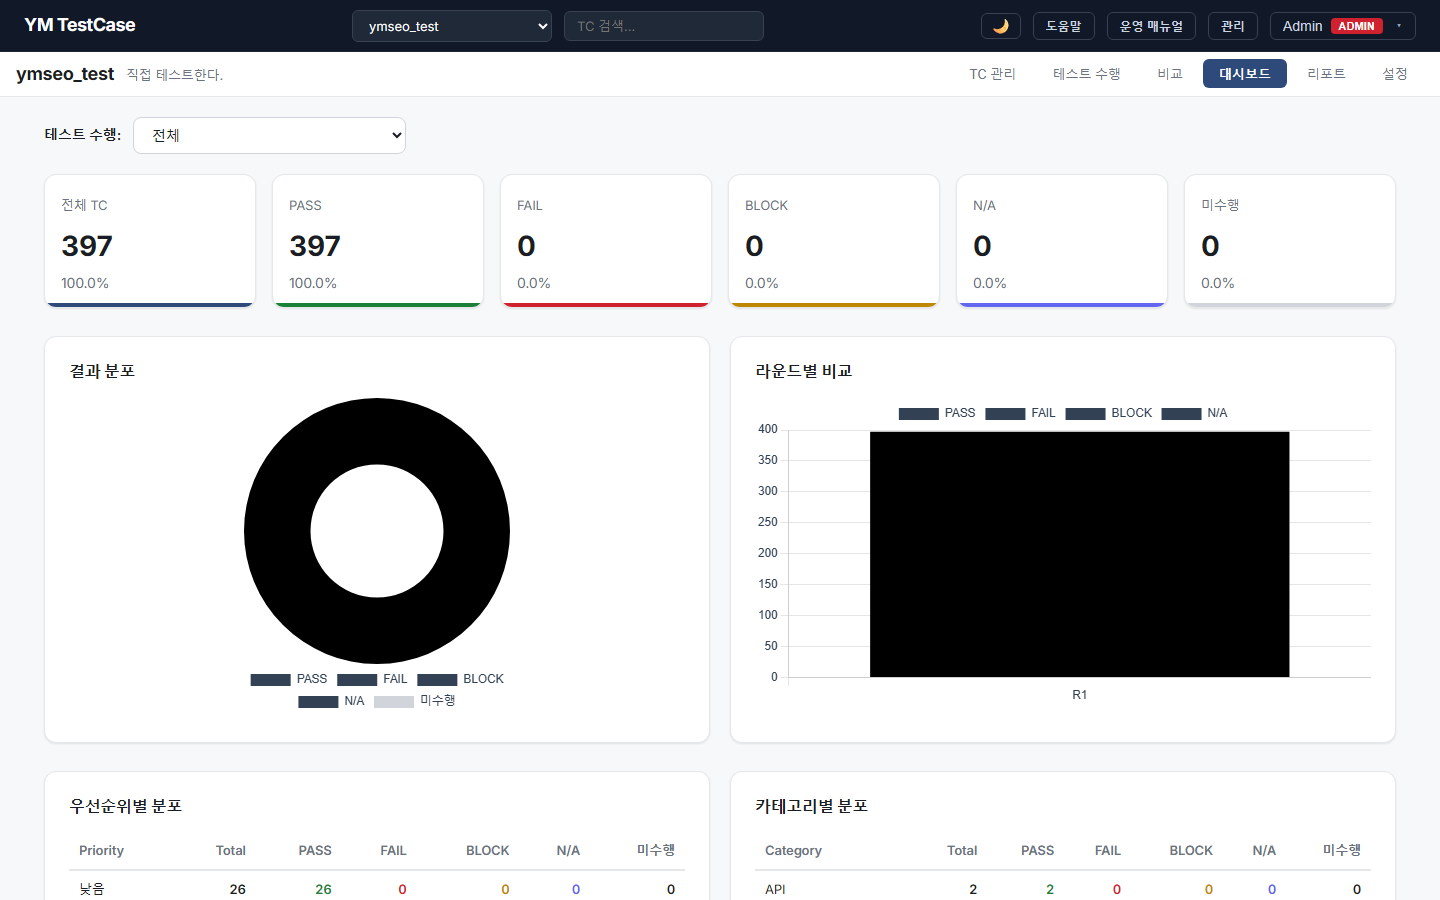
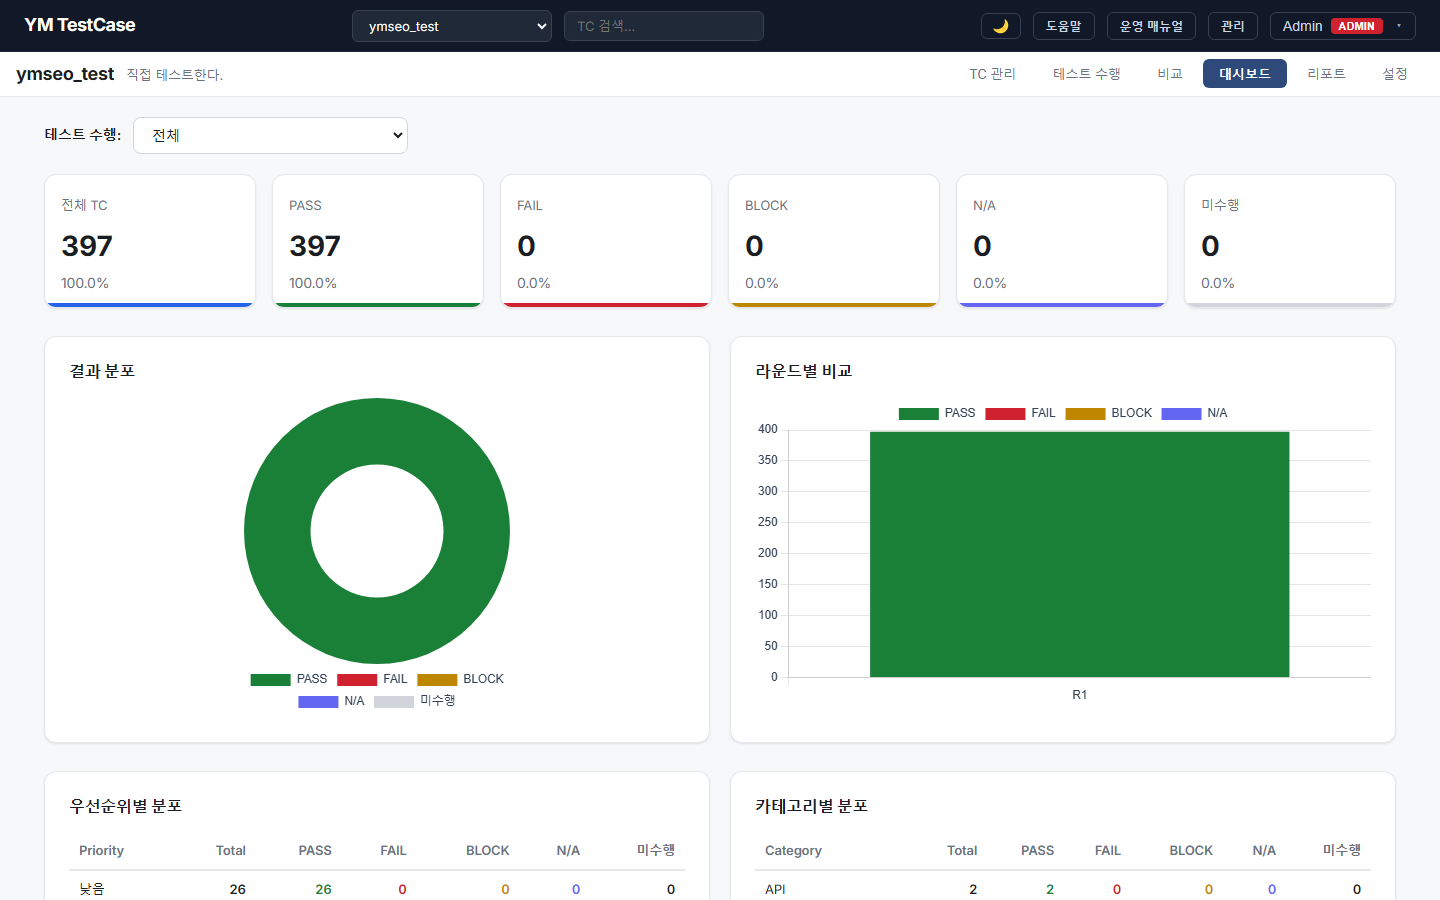
대시보드 차트 색상 수정 + README 제목 개선 + 스크린샷 갱신
- Chart.js에서 CSS 변수 미지원 → 라이트/다크 hex 값으로 분리
- README 섹션명: 왜 이 도구인가 → 기존 도구와의 비교, 빠른 시작 → 환경설정 방법
- 대시보드 스크린샷 5장 재촬영 (라이트 + 다크모드)

Changed region(s): [[0.5938, 0.4356, 0.9062, 0.7778], [0.1562, 0.4356, 0.375, 0.8089], [0.0312, 0.3111, 0.1562, 0.3422]]

diff --git a/frontend/src/components/Dashboard.tsx b/frontend/src/components/Dashboard.tsx
@@ -16,18 +16,28 @@ interface Props {
   projectId: number;
 }
 
-const CARD_COLORS = {
-  total: "var(--accent)",
-  pass: "var(--color-pass)",
-  fail: "var(--color-fail)",
-  block: "var(--color-block)",
-  na: "var(--color-na)",
+const COLORS_LIGHT = {
+  total: "#2563EB",
+  pass: "#1A7F37",
+  fail: "#CF222E",
+  block: "#BF8700",
+  na: "#6366F1",
   not_started: "#D1D5DB",
+};
+
+const COLORS_DARK = {
+  total: "#60A5FA",
+  pass: "#22C55E",
+  fail: "#EF4444",
+  block: "#EAB308",
+  na: "#818CF8",
+  not_started: "#6B7280",
 };
 
 export default function Dashboard({ projectId }: Props) {
   const { theme } = useTheme();
   const isDark = theme === "dark";
+  const CARD_COLORS = isDark ? COLORS_DARK : COLORS_LIGHT;
   const chartTextColor = isDark ? "#E2E8F0" : "#334155";
   const chartGridColor = isDark ? "rgba(45, 74, 122, 0.3)" : "rgba(0, 0, 0, 0.1)";
   const [runs, setRuns] = useState<TestRun[]>([]);

diff --git a/README.md b/README.md
@@ -15,7 +15,7 @@ TestRail · Kiwi TCMS 대안으로, **작성 → 실행 → 집계 → 리포트
 |---|---|
 | **프로젝트 목록** — 현황 및 진행률 | **대시보드** — 통계 한눈에 |
 
-## 왜 이 도구인가
+## 기존 도구와의 비교
 
 | 기존 방식 | YM TestCase |
 |---|---|
@@ -23,7 +23,7 @@ TestRail · Kiwi TCMS 대안으로, **작성 → 실행 → 집계 → 리포트
 | 상용 도구(TestRail 등) → 비용, 셀프호스팅 불가 | 무료 오픈소스, Docker 한 줄로 배포 |
 | 자체 개발 → 구축 기간, 유지보수 부담 | 설치 즉시 사용 가능, MIT 라이선스 |
 
-## 빠른 시작 — 3분이면 실행
+## 환경설정 방법
 
 ```bash
 git clone https://github.com/sym804/ym-testcase.git
